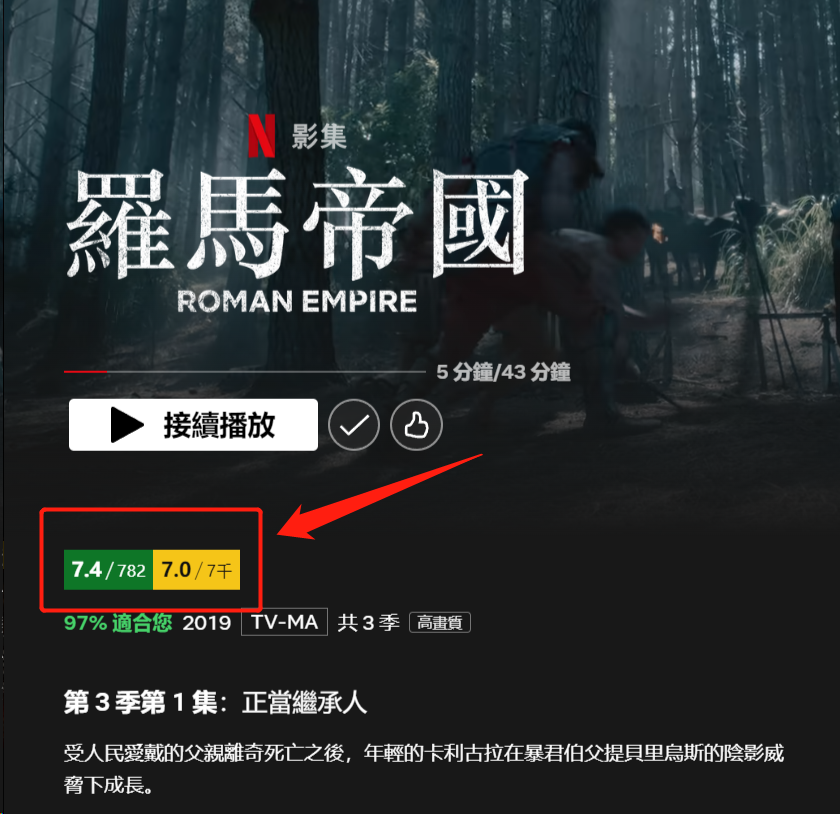
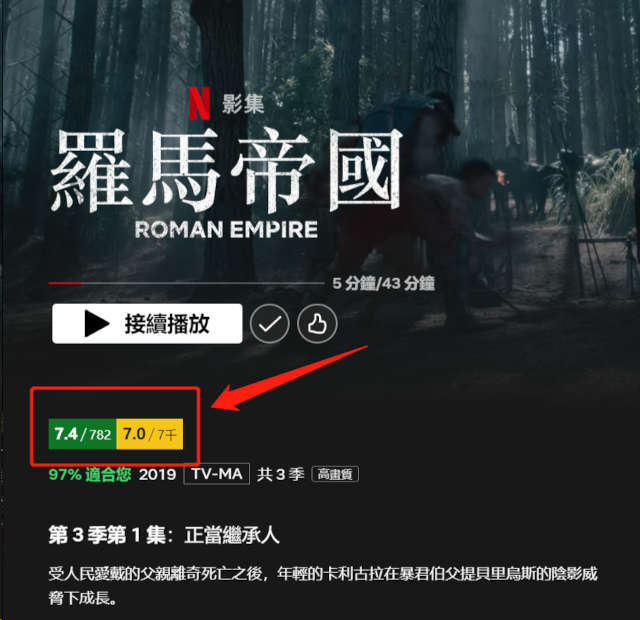
reduce image size #44

diff --git a/docs/install/installOnQQBrowser/README.md b/docs/install/installOnQQBrowser/README.md
@@ -10,15 +10,3 @@ next: /usage/
 如果您是 Windows 平台用户，建议使用微软官方自带 [Edge](/install/installOnEdge/)，
 macOS 平台用户，建议用苹果官方自带 [Safari](/install/installOnSafari/)。
 :::
-
-1. QQ 浏览器商店已死无法上架插件应用，因此用户只能通过加载本地插件的方式手动安装。我们先点击[这里](https://share.weiyun.com/rWXs6Evl)，下载「伽马影迷插件」压缩包。 ![在 QQ浏览器 上安装插件 1](/assets/install.qqbrowser.1.png)
-
-1. 下载完成后，将此压缩包解压到任意目录，如「桌面」。
-
-1. 使用 QQ 浏览器打开[插件管理页面](qqbrowser://extensions/manage)，然后在上方勾选「开发者模式」。 ![在 QQ浏览器 上安装插件 2](/assets/install.qqbrowser.2.png)
-
-1. 点击「加载已解压的扩展程序」以选择本地插件目录。 ![在 QQ浏览器 上安装插件 3](/assets/install.qqbrowser.3.png)
-
-1. 选择解压后的文件目录，然后再点击选择文件夹。 ![在 QQ浏览器 上安装插件 4](/assets/install.qqbrowser.4.png)
-
-1. 弹出「插件使用指南」页面时，说明插件已安装完成。 ![在 QQ浏览器 上安装插件 5](/assets/install.qqbrowser.5.png)

diff --git a/docs/usage/usageNetflix/index.md b/docs/usage/usageNetflix/index.md
@@ -12,7 +12,7 @@ Netflix 网站上使用插件查电影评分、看短视频解说、找片源指
 
 1. 在电脑浏览器上安装「[伽马影迷插件](/install/)」。
 
-1. 打开浏览器，进入 [Netflix 首页](https://www.netflix.com/browse)界面，稍等片刻便可在主页直观地看到每一部片的来自不同影评网站，如豆瓣，IMDb 等的评分以及评分人数。 ![在 Netflix 上使用插件 1](/assets/usage.netflix.1.png)
+1. 打开浏览器，进入 [Netflix 首页](https://www.netflix.com/browse)界面，稍等片刻便可在主页直观地看到每一部片的来自不同影评网站，如豆瓣，IMDb 等的评分以及评分人数。 ![在 Netflix 上使用插件 1](/assets/usage.netflix.1.jpg)
 
 1. 将鼠标移动到想查看详情的影片上，点击如图所示的按钮。 ![在 Netflix 上使用插件 2](/assets/usage.netflix.2.jpg)
 
